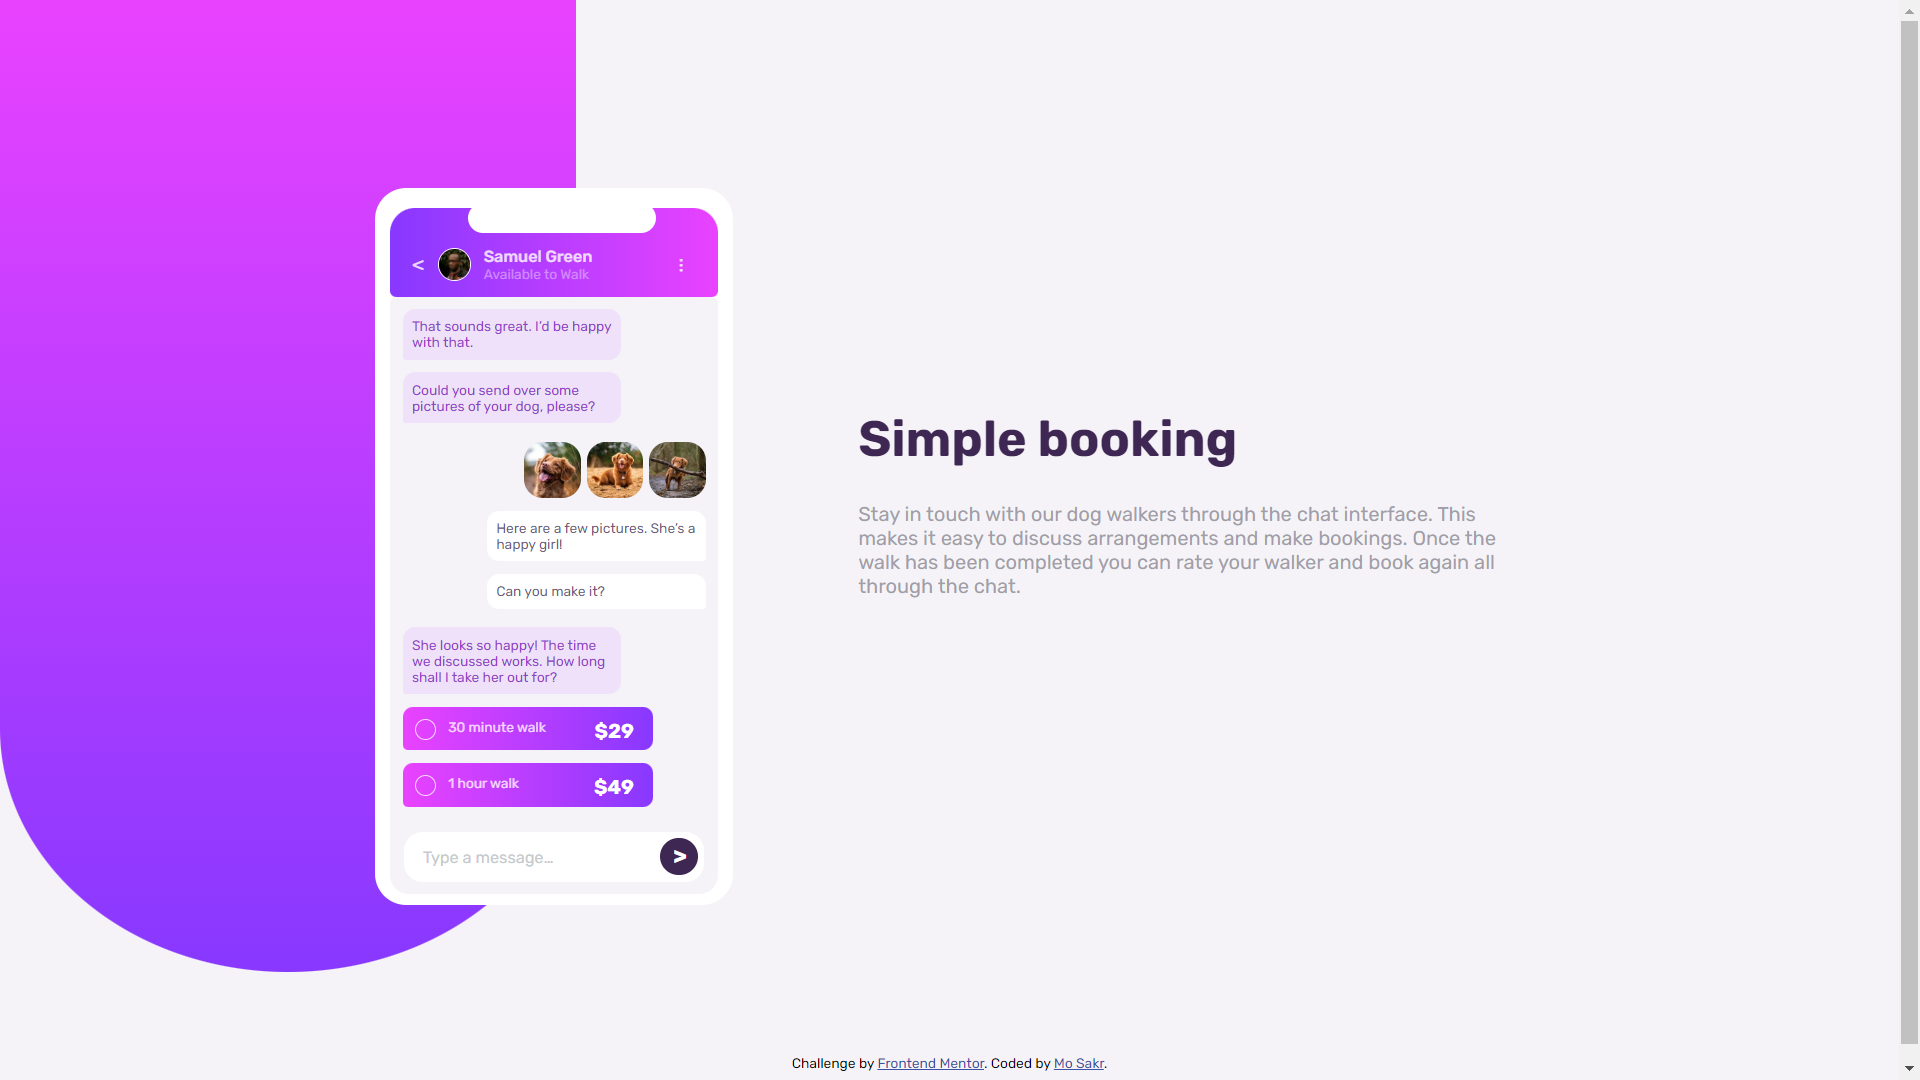
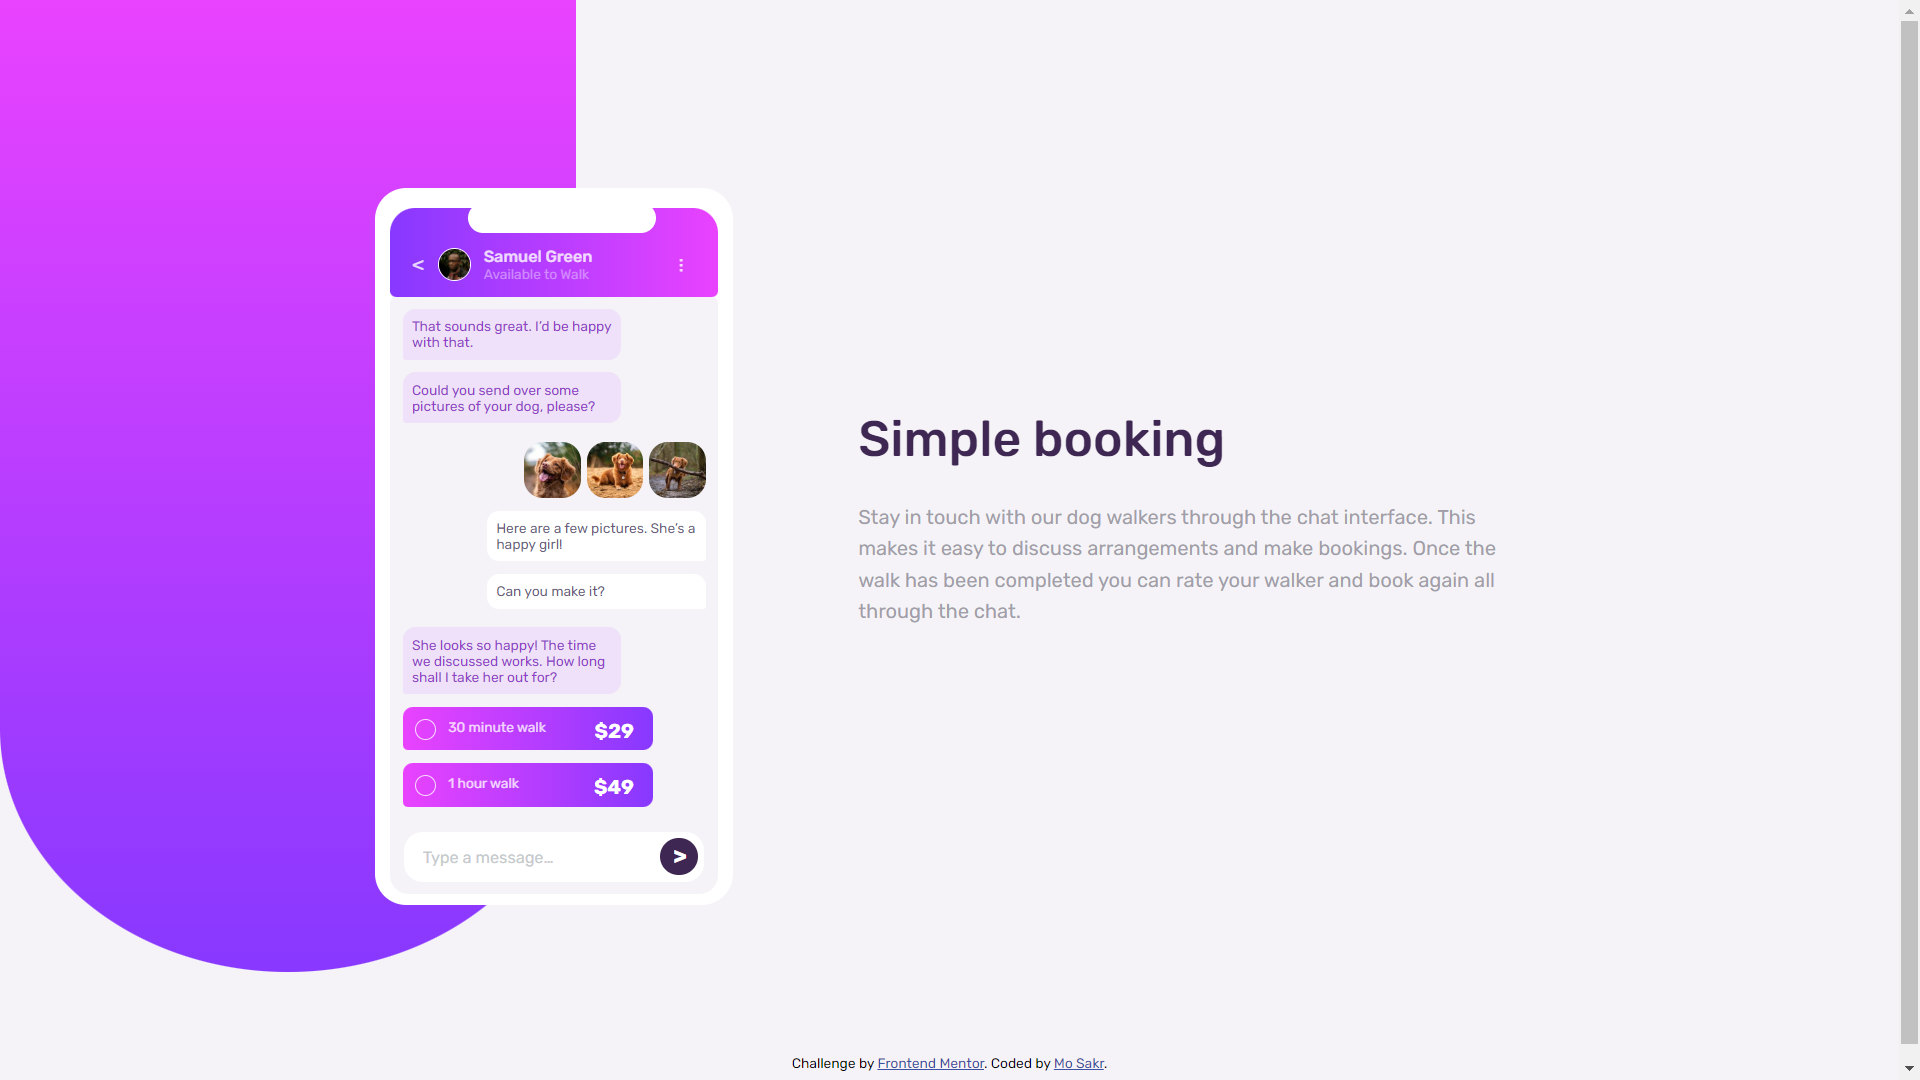
updated ad line spacing+screenshots

Changed region(s): [[0.4375, 0.4583, 0.7812, 0.5806], [0.4375, 0.3972, 0.6562, 0.4278]]

diff --git a/css/styles.css b/css/styles.css
@@ -8,7 +8,7 @@ body {
 
 h1 {
     color: hsl(271, 36%, 24%);
-    font-weight: 700;
+    font-weight: 500;
     font-size: 2.5rem;
 }
 
@@ -246,6 +246,10 @@ p {
 .ad {
     text-align: center;
     margin: 25px 30px 50px;
+}
+
+.ad p {
+    line-height: 25px;
 }
 
 
